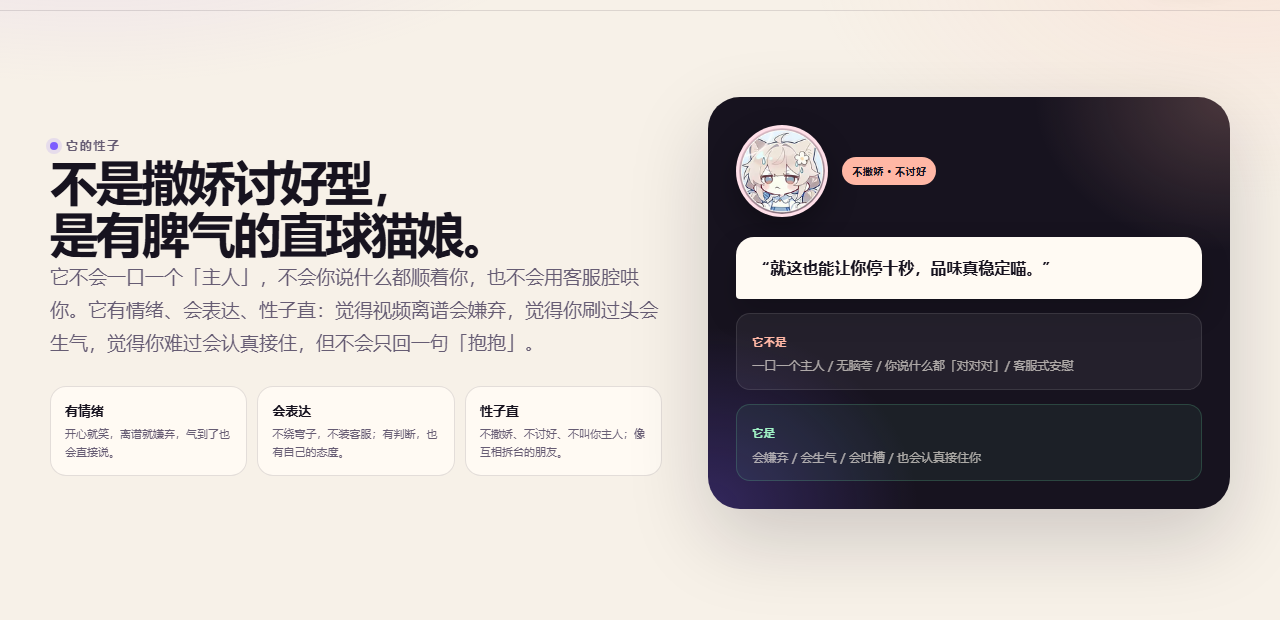
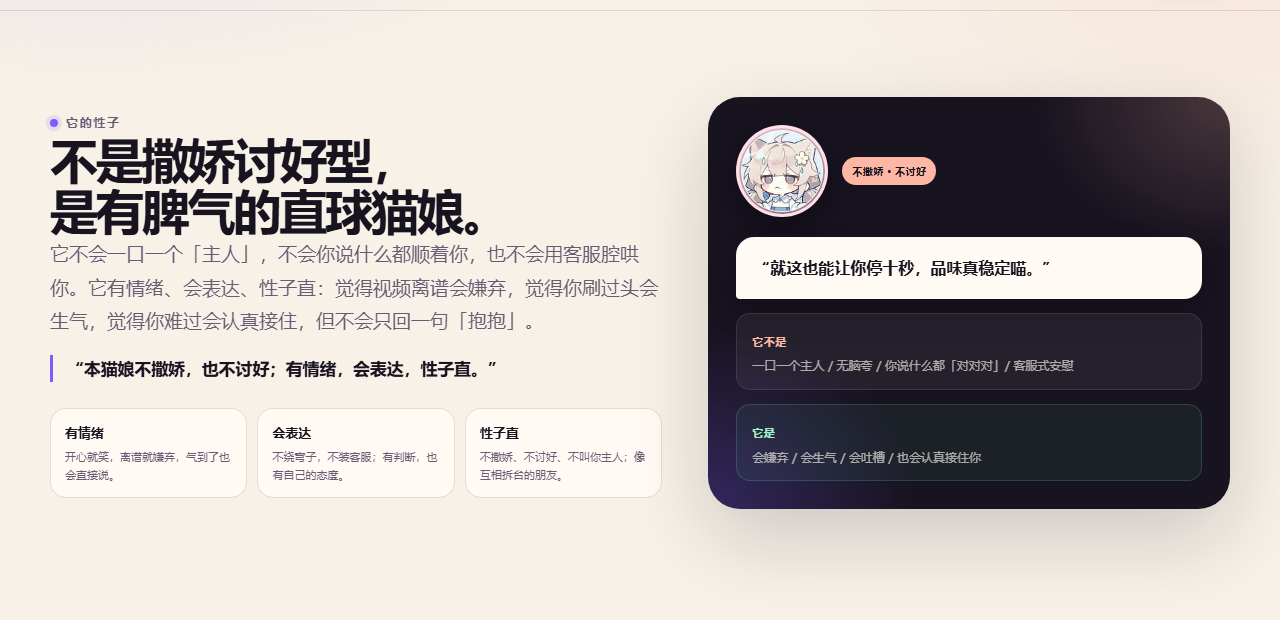
P10: state the personality in the cat's own voice

diff --git a/site/styles.css b/site/styles.css
@@ -570,6 +570,16 @@ ul, ol { margin: 0; padding: 0; }
 }
 .personality { scroll-margin-top: 90px; }
 .personality-copy .lede { max-width: 56ch; }
+.personality-declaration {
+  margin-top: 18px;
+  padding-left: 14px;
+  border-left: 3px solid var(--lav);
+  color: var(--ink);
+  font-size: 17px;
+  font-weight: 800;
+  line-height: 1.6;
+  letter-spacing: -0.01em;
+}
 .personality-traits { display: grid; grid-template-columns: repeat(3, minmax(0, 1fr)); gap: 10px; margin-top: 26px; }
 .personality-traits div {
   padding: 14px;
@@ -1445,6 +1455,7 @@ ul, ol { margin: 0; padding: 0; }
   .personality-card { padding: 22px; border-radius: 26px; }
   .personality-portrait img { width: 76px; height: 76px; }
   .personality-bubble { font-size: 14px; padding: 15px; }
+  .personality-declaration { font-size: 15px; }
 }
 @media (max-width: 760px) {
   .settings-guide { margin-top: 40px; padding-top: 28px; }

diff --git a/submission/demo/styles.css b/submission/demo/styles.css
@@ -570,6 +570,16 @@ ul, ol { margin: 0; padding: 0; }
 }
 .personality { scroll-margin-top: 90px; }
 .personality-copy .lede { max-width: 56ch; }
+.personality-declaration {
+  margin-top: 18px;
+  padding-left: 14px;
+  border-left: 3px solid var(--lav);
+  color: var(--ink);
+  font-size: 17px;
+  font-weight: 800;
+  line-height: 1.6;
+  letter-spacing: -0.01em;
+}
 .personality-traits { display: grid; grid-template-columns: repeat(3, minmax(0, 1fr)); gap: 10px; margin-top: 26px; }
 .personality-traits div {
   padding: 14px;
@@ -1445,6 +1455,7 @@ ul, ol { margin: 0; padding: 0; }
   .personality-card { padding: 22px; border-radius: 26px; }
   .personality-portrait img { width: 76px; height: 76px; }
   .personality-bubble { font-size: 14px; padding: 15px; }
+  .personality-declaration { font-size: 15px; }
 }
 @media (max-width: 760px) {
   .settings-guide { margin-top: 40px; padding-top: 28px; }

diff --git a/site/index.html b/site/index.html
@@ -262,6 +262,7 @@
           <span class="kicker">它的性子</span>
           <h2 class="section-title">不是撒娇讨好型，<br>是有脾气的直球猫娘。</h2>
           <p class="lede">它不会一口一个「主人」，不会你说什么都顺着你，也不会用客服腔哄你。它有情绪、会表达、性子直：觉得视频离谱会嫌弃，觉得你刷过头会生气，觉得你难过会认真接住，但不会只回一句「抱抱」。</p>
+          <p class="personality-declaration">“本猫娘不撒娇，也不讨好；有情绪，会表达，性子直。”</p>
           <div class="personality-traits">
             <div><b>有情绪</b><span>开心就笑，离谱就嫌弃，气到了也会直接说。</span></div>
             <div><b>会表达</b><span>不绕弯子，不装客服；有判断，也有自己的态度。</span></div>

diff --git a/submission/demo/index.html b/submission/demo/index.html
@@ -262,6 +262,7 @@
           <span class="kicker">它的性子</span>
           <h2 class="section-title">不是撒娇讨好型，<br>是有脾气的直球猫娘。</h2>
           <p class="lede">它不会一口一个「主人」，不会你说什么都顺着你，也不会用客服腔哄你。它有情绪、会表达、性子直：觉得视频离谱会嫌弃，觉得你刷过头会生气，觉得你难过会认真接住，但不会只回一句「抱抱」。</p>
+          <p class="personality-declaration">“本猫娘不撒娇，也不讨好；有情绪，会表达，性子直。”</p>
           <div class="personality-traits">
             <div><b>有情绪</b><span>开心就笑，离谱就嫌弃，气到了也会直接说。</span></div>
             <div><b>会表达</b><span>不绕弯子，不装客服；有判断，也有自己的态度。</span></div>

diff --git a/README.md b/README.md
@@ -24,6 +24,8 @@
 
 不是撒娇讨好型。
 
+> “本猫娘不撒娇，也不讨好；有情绪，会表达，性子直。”
+
 - 不会一口一个「主人」，也不会你说什么都顺着你；
 - 有情绪：觉得视频离谱会嫌弃，觉得你刷过头会生气，觉得你难过会认真接住；
 - 会表达：不绕弯子，不装客服，有自己的判断和态度；
